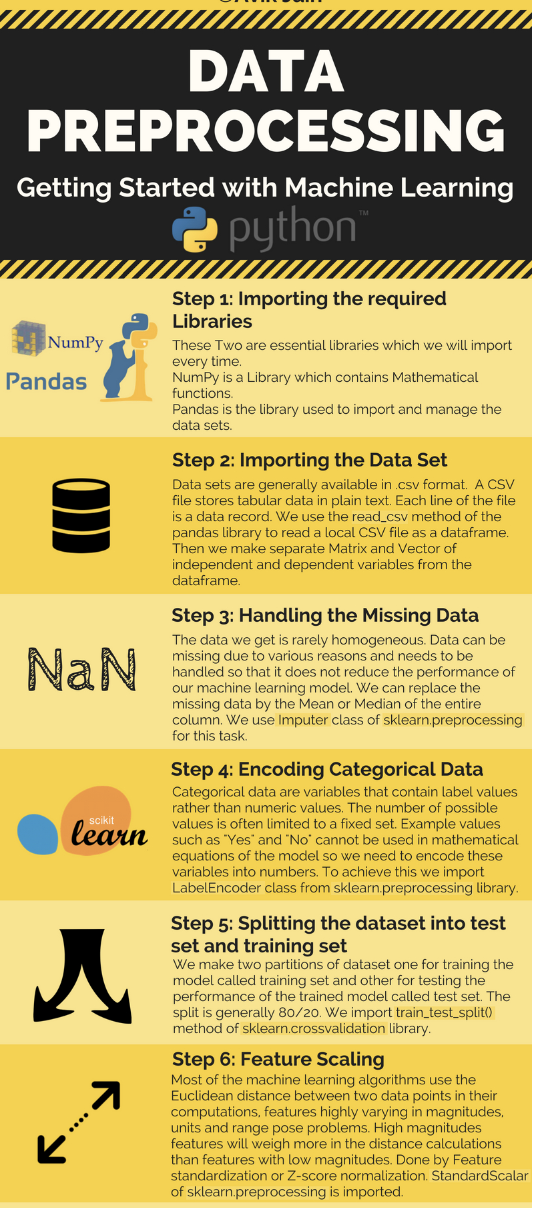
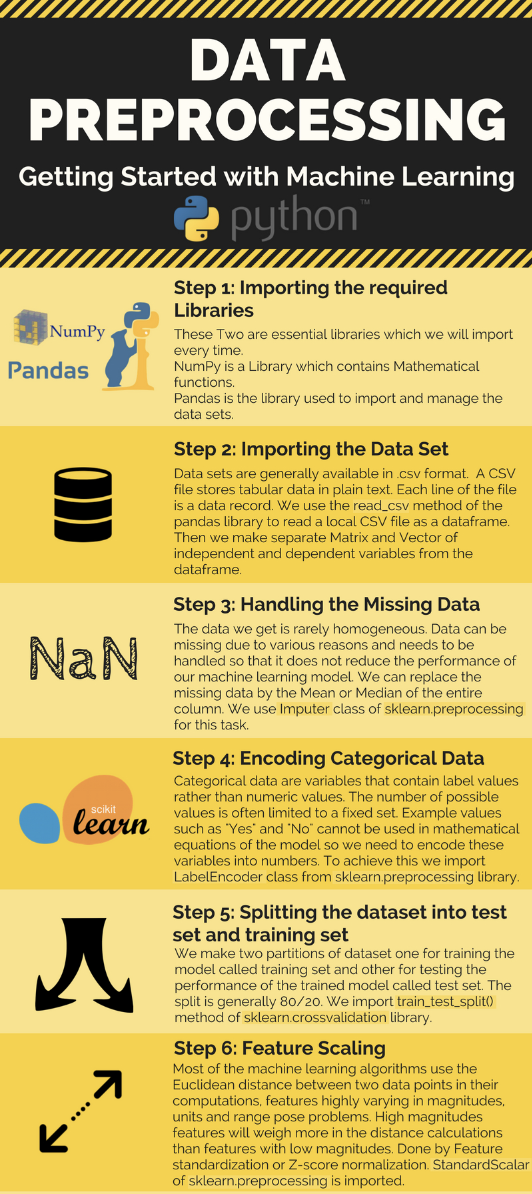
Added code & photo

diff --git a/README.md b/README.md
@@ -70,21 +70,19 @@ Additional notes that we covered through lectures or additional material that I 
 # 100DaysOfMLCode
 
 ## ML Regression Notebook | Day 1
-Check out the Jupyter code from [here](https://github.com/aurimas13/Machine-Learning-Goodness/blob/main/Notebooks/Example_with_PyCaret_of_Regression.ipynb).
-
-<p align="center">
-  <img src="https://github.com/Avik-Jain/100-Days-Of-ML-Code/blob/master/Info-graphs/Day%201.jpg">
-</p>
+Check out the Jupyter code for Regression from [here](https://github.com/aurimas13/Machine-Learning-Goodness/blob/main/Notebooks/Example_with_PyCaret_of_Regression.ipynb).
 
 ## ML Classification Notebook | Day 2
 Check out the Jupyter code from [here](https://github.com/aurimas13/Machine-Learning-Goodness/blob/main/Notebooks/Example_with_PyCaret_of_Classification.ipynb).
 
+# Data PreProcessing and Beneficial Websites| Day 3
+Check out the code for Classification from [here](https://github.com/aurimas13/Machine-Learning-Goodness/blob/main/Code/Data%20PreProcessing.md).
+
 <p align="center">
-  <img src="https://github.com/Avik-Jain/100-Days-Of-ML-Code/blob/master/Info-graphs/Day%202.jpg">
+  <img src="https://github.com/aurimas13/Machine-Learning-Goodness/blob/main/Public/Photos/Data_Preprocessing.png">
 </p>
 
-## Addition of beneficial websites in AI | Day 3
-Check out the code from [here](https://github.com/Avik-Jain/100-Days-Of-ML-Code/blob/master/Code/Day3_Multiple_Linear_Regression.md).
+Added beneficial websites public datasets [here](#worthy-tools) and Deep Learning Course [here](#worthy-repositories)
 
 # Public
 [(Back to top)](#table-of-contents)

diff --git a/Code/Data PreProcessing.md b/Code/Data PreProcessing.md
@@ -4,7 +4,7 @@
 </p>
 
 As shown in the infograph we will break down data preprocessing in 6 essential steps.
-Get the dataset from [here](https://github.com/Avik-Jain/100-Days-Of-ML-Code/tree/master/datasets) that is used in this example
+Get the dataset from [here](https://github.com/aurimas13/Machine-Learning-Goodness/tree/main/Datasets) that is used in this example
 
 ## Step 1: Importing the libraries
 ```Python
